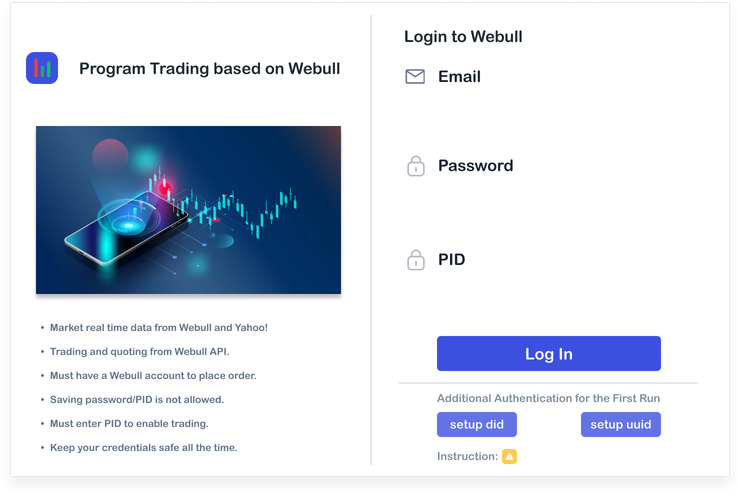
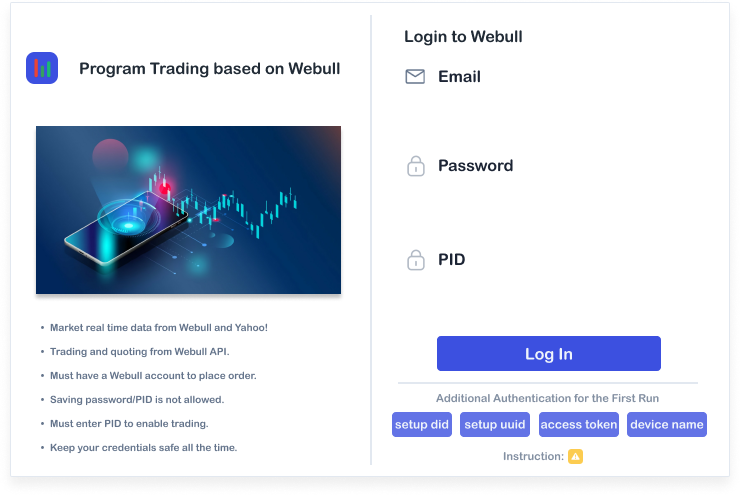
add database and login setup

Changed region(s): [[0.5284, 0.7879, 0.9635, 0.9394]]

diff --git a/gui/gui_0_DashboardLogin/DashboardLogin.py b/gui/gui_0_DashboardLogin/DashboardLogin.py
@@ -1,6 +1,6 @@
 import tkinter as tk
 from pathlib import Path
-from tkinter import Canvas, Entry, PhotoImage
+from tkinter import Canvas, Entry, PhotoImage, simpledialog, messagebox
 
 from utils.input_check import is_valid_email, is_valid_phone_number, is_valid_pid
 
@@ -107,21 +107,16 @@ class DashboardLogin(tk.Frame):
             # frame area clicked
             if 712 <= x <= 936 and 529 <= y <= 564:
                 self.login_clicked()
-            elif 712 <= x <= 792 and 605 <= y <= 630:
+            elif 667 <= x <= 727 and 605 <= y <= 630:
                 self.setup_did_clicked()
-            elif 856 <= x <= 936 and 605 <= y <= 630:
+            elif 735 <= x <= 805 and 605 <= y <= 630:
                 self.setup_uuid_clicked()
-            elif 712 <= x <= 792 and 637 <= y <= 661:
+            elif 778 <= x <= 858 and 637 <= y <= 661:
                 self.instruction_clicked()
-
-    def instruction_clicked(self):
-        print(f"{self.name}: Instruction clicked")
-
-    def setup_did_clicked(self):
-        print(f"{self.name}: DID clicked")
-
-    def setup_uuid_clicked(self):
-        print(f"{self.name}: UUID clicked")
+            elif 814 <= x <= 894 and 605 <= y <= 630:
+                self.access_token_clicked()
+            elif 902 <= x <= 982 and 605 <= y <= 630:
+                self.device_name_clicked()
 
     def msg_clicked(self, event):
         print(f"{self.name}: Message clicked")
@@ -129,16 +124,39 @@ class DashboardLogin(tk.Frame):
     def notify_clicked(self, event):
         print(f"{self.name}: Notify clicked")
 
+    def device_name_clicked(self):
+        input_value = simpledialog.askstring("Setup device name",
+                                             "Enter the device name (click instruction for help) :")
+        if input_value is not None:
+            self.parent.set_device_name(input_value)
+
+    def access_token_clicked(self):
+        input_value = simpledialog.askstring(
+            "Setup access token",
+            "Enter the access token from the web, keep it safe (click instruction for help) :")
+        if input_value is not None:
+            self.parent.set_access_token(input_value)
+
+    def instruction_clicked(self):
+        print(f"{self.name}: Instruction clicked")
+
+    def setup_did_clicked(self):
+        input_value = simpledialog.askstring("Setup _did value", "Enter the _did value (click instruction for help) : ")
+        if input_value is not None:
+            self.parent.setup_did(input_value)
+
+    def setup_uuid_clicked(self):
+        input_value = simpledialog.askstring("Setup uuid value", "Enter the uuid value (click instruction for help) : ")
+        if input_value is not None:
+            self.parent.setup_uuid(input_value)
+
     def login_clicked(self):
         email = self.entry_3_email.get()
         password = self.entry_2_password.get()
         pid = self.entry_1_PID.get()
         if (is_valid_email(email) or is_valid_phone_number(email)) and is_valid_pid(pid):
-            print("go to login")
-            print(f"email: {email}")
-            print(f"pd: {password}")
-            print(f"pid: {pid}")
+            self.parent.login(email, password, pid)
         else:
-            print("incorrect email, phone number, or PID format")
+            messagebox.showinfo("Oops something went wrong", "incorrect email, phone number, or PID format")
 
 

diff --git a/app.py b/app.py
@@ -5,15 +5,12 @@ APP GUI Main interface
 LukeLab, 05/2023
 
 """
-import ctypes
-import time
 import tkinter as tk
-from pathlib import Path
 
-from tkinter import Tk, Canvas, Entry, PhotoImage
+from tkinter import PhotoImage, messagebox
 from tkinter import font as tkfont
 
-from Trader import Trader
+from trader.Trader import Trader
 from gui.gui_0_DashboardLogin.DashboardLogin import DashboardLogin
 from gui.gui_1_DashboardLogged.DashboardLogged import DashboardLogged
 from gui.gui_2_StrategyMonitor.StrategyMonitor import StrategyMonitor
@@ -24,6 +21,7 @@ from gui.gui_6_APPLog.APPLog import APPLog
 from gui.gui_7_Message.Message import Message
 from gui.gui_8_DownloadData.DownloadData import DownloadData
 from gui.gui_9_SaveExit.SaveExit import SaveExit
+from utils.SQLiteHelper import SQLiteHelper
 
 
 class TradingApp(tk.Tk):
@@ -34,8 +32,9 @@ class TradingApp(tk.Tk):
         self.trader = Trader()
 
         # set app icon
-        self.icon_photo = PhotoImage(file="gui/icon.png")
-        self.iconphoto(False, self.icon_photo, self.icon_photo)
+        # self.icon_photo = PhotoImage(file="gui/icon.png")
+        # self.iconphoto(False, self.icon_photo, self.icon_photo)
+        self.iconbitmap(default="gui/icon.ico")
 
         # set app window size
         self.geometry("1096x728+200+100")
@@ -73,7 +72,9 @@ class TradingApp(tk.Tk):
         # Database State:
         self.db_connected = False
         self.db_name = "tradingApp.db"
+        self.db = SQLiteHelper(self.db_name)
 
+    # Frontend functions:
     def print_sth(self):
         print("sth")
         print(f'{self.cnt}')
@@ -114,6 +115,37 @@ class TradingApp(tk.Tk):
         frame = self.frames[page_name]
         self.current_frame = frame
         frame.tkraise()
+
+    # Back-end functions:
+    # Trader:
+    def read_trader_info(self):
+        self.trader.set_device_name(self.db.get_device_name())
+        self.trader.set_auth_access_token(self.db.get_access_token())
+        self.trader.set_auth_did(self.db.get_did())
+        self.trader.set_auth_uuid(self.db.get_uuid())
+
+    # DashboardLogin
+    def setup_did(self, did):
+        self.trader.set_auth_did(did)
+
+    def setup_uuid(self, uuid):
+        self.trader.set_auth_uuid(uuid)
+
+    def set_access_token(self, access_token):
+        self.trader.set_auth_access_token(access_token)
+
+    def set_device_name(self, device_name):
+        self.trader.set_device_name(device_name)
+
+    def login(self, email, password, pid):
+        self.trader.set_trader_info(email, password, pid)
+        res = self.trader.log_in()
+        if res:
+            self.logged_in = True
+            self.show_frame("DashboardLogged")
+        else:
+            self.logged_in = False
+            messagebox.showinfo("Oops something went wrong", "please check username or password.              ")
 
 
 if __name__ == "__main__":

diff --git a/utils/SQLiteHelper.py b/utils/SQLiteHelper.py
@@ -1,0 +1,83 @@
+import sqlite3
+
+
+class SQLiteHelper:
+    def __init__(self, db_name):
+        self.db_name = db_name
+        self.conn = None
+        self.cursor = None
+        self.init_trader_info()
+
+    def connect(self):
+        self.conn = sqlite3.connect(self.db_name)
+        self.cursor = self.conn.cursor()
+
+    def create_table(self, table_name, columns):
+        query = f"CREATE TABLE IF NOT EXISTS {table_name} ({columns})"
+        self.cursor.execute(query)
+        self.conn.commit()
+
+    def get_data(self, table_name, columns="*", condition=None):
+        query = f"SELECT {columns} FROM {table_name}"
+        if condition:
+            query += f" WHERE {condition}"
+        self.cursor.execute(query)
+        return self.cursor.fetchall()
+
+    def update_data(self, table_name, column_value_pairs, condition):
+        query = f"UPDATE {table_name} SET "
+        query += ", ".join([f"{column} = ?" for column in column_value_pairs])
+        query += f" WHERE {condition}"
+        values = list(column_value_pairs.values())
+        self.cursor.execute(query, values)
+        self.conn.commit()
+
+    def insert_data(self, table_name, data):
+        query = f"INSERT INTO {table_name} ({', '.join(data.keys())}) VALUES ({', '.join(['?' for _ in data.values()])})"
+        self.cursor.execute(query, tuple(data.values()))
+        self.conn.commit()
+
+    def close_connection(self):
+        if self.cursor:
+            self.cursor.close()
+        if self.conn:
+            self.conn.close()
+        self.cursor = None
+        self.conn = None
+
+    def reconnect(self):
+        self.close_connection()
+        self.connect()
+
+    # Utility functions:
+    def init_trader_info(self):
+        self.connect()
+        table_name = "trader_info"
+        columns = "email TEXT, access_token TEXT, device_name TEXT, did TEXT, uuid TEXT"
+        self.create_table(table_name, columns)
+
+    def get_device_name(self):
+        self.connect()
+        data = self.get_data("trader_info", "device_name")
+        self.close_connection()
+        return data[0][0]
+
+    def get_access_token(self):
+        self.connect()
+        data = self.get_data("trader_info", "access_token")
+        self.close_connection()
+        return data[0][0]
+
+    def get_did(self):
+        self.connect()
+        data = self.get_data("trader_info", "did")
+        self.close_connection()
+        return data[0][0]
+
+    def get_uuid(self):
+        self.connect()
+        data = self.get_data("trader_info", "uuid")
+        self.close_connection()
+        return data[0][0]
+
+

diff --git a/trader/Trader.py b/trader/Trader.py
@@ -31,14 +31,16 @@ class Trader:
 
         logging_info('Trader created')
 
-    def set_trader_info(self, username, password, pid, device_name):
+    def set_trader_info(self, username, password, pid):
         self.username = username
         self.password = password
         self.PID = pid
-        self.device_name = device_name
-        self.has_trader_info = True
+        if self.did and self.access_token and self.uuid and self.device_name:
+            self.has_trader_info = True
         logging_info('Trader info set up')
-        return True
+
+    def set_device_name(self, device_name):
+        self.device_name = device_name
 
     def set_auth_did(self, did):
         self.did = did

diff --git a/app_testing.py b/app_testing.py
@@ -1,5 +1,5 @@
 # start trading test
-from Trader import Trader
+from trader.Trader import Trader
 from env.de_k import *
 from env._secrete import *
 import time
@@ -18,8 +18,8 @@ pd2 = str(decryption_key_pd2())
 device_name = device_name
 trader = Trader()
 
-
-trader.set_trader_info(user_email, pd, pd2, device_name)
+trader.set_device_name(device_name)
+trader.set_trader_info(user_email, pd, pd2)
 trader.access_token = decryption_key_at()
 trader.log_in()
 time.sleep(3)
